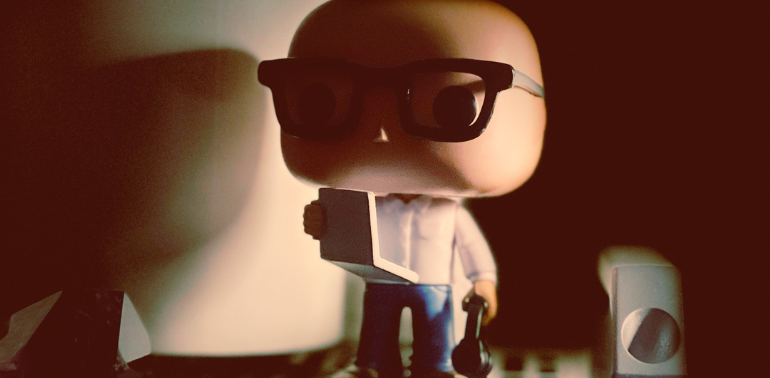
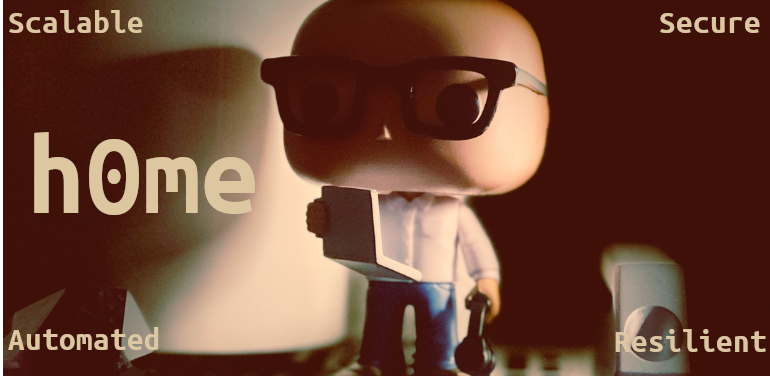
README

diff --git a/README.md b/README.md
@@ -1,36 +1,23 @@
-<div style="text-align: center; color: #ddc7a1;">
+<div align="center">
 
-![](./_docs/images/lab.png)
+![lab](./_docs/images/lab.png)
 
-<h1 style="color: #ddc7a1;">h0me</h1>
-
-</div>
-
-<!-- Goals Subtitle -->
-<div style="text-align: center; font-family: sans-serif; color: #ddc7a1;">
-  <h3 style="color: #ddc7a1;">The goal is simple:</h3>
-  <p>
-    <span style="display: inline-block; margin: 0 10px;"><strong style="color: #a9b665;">1.</strong> Reproducible</span>
-    <span style="display: inline-block; margin: 0 10px;"><strong style="color: #a9b665;">2.</strong> Version Controlled</span>
-    <span style="display: inline-block; margin: 0 10px;"><strong style="color: #a9b665;">3.</strong> Learn Something New</span>
-  </p>
 </div>
 
 <br>
 
-<!-- Side-by-Side Dev and Prod Columns -->
-<table style="width: 100%; border: none; border-collapse: collapse; text-align: center; color: #ddc7a1;">
+<table align="center" width="100%">
   <thead>
-    <tr style="border: none;">
-      <th style="width: 50%; border: none; text-align: center; font-size: 1.5em; padding-bottom: 10px; color: #e78a4e;">Dev</th>
-      <th style="width: 50%; border: none; text-align: center; font-size: 1.5em; padding-bottom: 10px; color: #e78a4e;">Prod</th>
+    <tr>
+      <th align="center" width="50%"><img src="https://img.shields.io/badge/Dev-e78a4e?style=flat" alt="Dev"></th>
+      <th align="center" width="50%"><img src="https://img.shields.io/badge/Prod-d8a657?style=flat" alt="Prod"></th>
     </tr>
   </thead>
   <tbody>
-    <tr style="border: none;">
-      <!-- DEV BADGES -->
-      <td style="border: none; text-align: center; vertical-align: top;">
-        <img src="https://img.shields.io/endpoint?url=https%3A%2F%2Fdev-kromgo.th0th.dev%2Ftalos_version&style=flat" alt="Talos">
+    <tr>
+      <td align="center" valign="top">
+        <p>
+          <img src="https://img.shields.io/endpoint?url=https%3A%2F%2Fdev-kromgo.th0th.dev%2Ftalos_version&style=flat" alt="Talos">
           <img src="https://img.shields.io/endpoint?url=https%3A%2F%2Fdev-kromgo.th0th.dev%2Fkubernetes_version&style=flat" alt="Kubernetes">
           <img src="https://img.shields.io/endpoint?url=https%3A%2F%2Fdev-kromgo.th0th.dev%2Fflux_version&style=flat" alt="Flux">
         </p>
@@ -43,22 +30,14 @@
           <img src="https://img.shields.io/endpoint?url=https%3A%2F%2Fdev-kromgo.th0th.dev%2Fcluster_alert_count&style=flat" alt="Alerts">
         </p>
       </td>
-      <!-- PROD BADGES -->
-      <td style="border: none; text-align: center; vertical-align: top; padding-top: 15px;">
-        <strong style="color: #d8a657;">WIP</strong>
+      <td align="center" valign="top">
+        <img src="https://img.shields.io/badge/status-WIP-d8a657?style=flat" alt="WIP">
       </td>
     </tr>
   </tbody>
 </table>
 
 <!--
-Per-cluster rows: add a new "### <env> — <cluster>" block per cluster as staging
-and prod come online, pointing the badges at https://<env>-kromgo.th0th.dev/<metric>.
-
-### staging — staging
-![Talos](https://shields.io)
-... (versions row)
-
-![CPU](https://shields.io)
-... (resources row)
+Per-cluster columns: add another <th>/<td> pair per cluster as staging/prod come
+online, pointing the badges at https://<env>-kromgo.th0th.dev/<metric>.
 -->